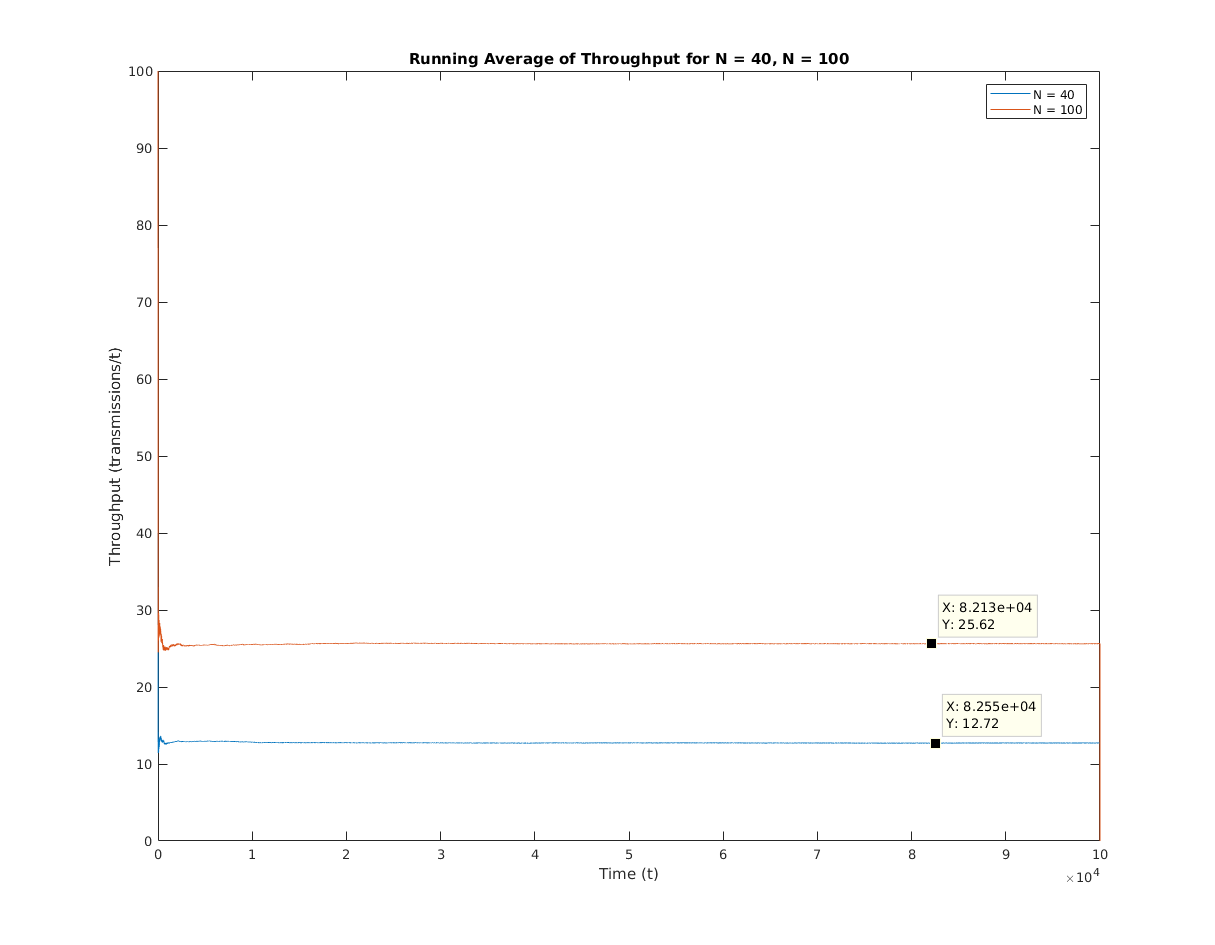
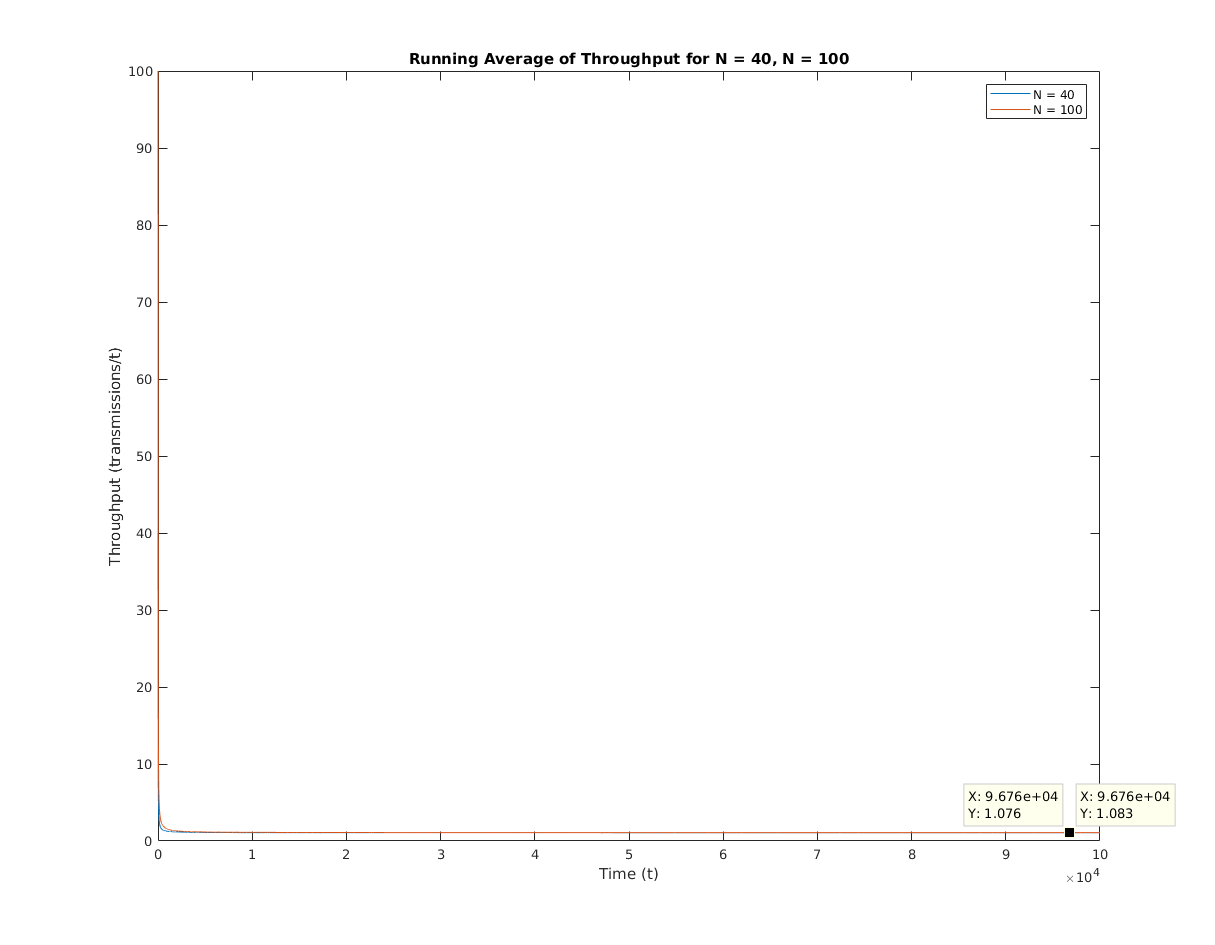
fixed 549 hw2.2, did bonus question

diff --git a/ele549/hw2/attempt1.m b/ele549/hw2/attempt1.m
@@ -6,33 +6,38 @@ N_arr = [40 100];
 TTMA = zeros(numel(N_arr),T); % Total Transmissions Moving Average
 
 for idx = 1:numel(N_arr)
-    numLambda = N_arr(idx);
-    P = ones(numLambda,T);
-    Ev = zeros(numLambda,1);
+    numUser = N_arr(idx);
+    P = ones(numUser,T);
+    P(:,1) = ones(numUser,1);
+    Ev = zeros(numUser,1);
     total_transmissions = zeros(1,T);
 
     for t = 1:(T-1)
-        for n = 1:numLambda
+        for n = 1:numUser
             Ev(n,1) = rand < P(n,t);
         end
         total_transmissions(1,t) = sum(Ev(:,1));
         if total_transmissions(1,t) == 0
             P(:,t+1) = min(1.2*P(:,t),1);
         elseif total_transmissions(1,t) > 1
-            P(:,t+1) = 0.8*P(:,t);
+            P(:,t+1) = 0.8.*P(:,t);
+        else
+            P(:,t+1) = P(:,t);
         end
         TTMA(idx,t) = sum(total_transmissions(1,1:t))/t;
     end
+    TTMA(idx,T) = sum(total_transmissions(1,1:T))/T;
 end
 
 %% Prob #2 Throughput Graphing
 t = 1:T;
 plot(t,TTMA(1,:))
 hold on
+plot(t,TTMA(2,:))
 xlabel("Time (t)")
 ylabel("Throughput (transmissions/t)")
 title("Running Average of Throughput for N = 40, N = 100")
-plot(t,TTMA(2,:))
+
 legend("N = 40","N = 100")
 hold off
 
@@ -151,14 +156,42 @@ end
 
 %% Geo/D/1, G/G/1, G/X/1 comparison graphing
 hold on;
-plot(lambda,geoMeanQueueLen, 'ro')
+plot(lambda,geoMeanQueueLen, 'rx')
 plot(lambda,detMeanQueueLen, 'bx')
-plot(lambda,expMeanQueueLen(1,:), 'go')
-plot(lambda,expMeanQueueLen(2,:), 'gx')
+plot(lambda,expMeanQueueLen(1,:), 'cx')
+plot(lambda,expMeanQueueLen(2,:), 'mx')
 plot(lambda,geoExpectedQueueLen,'r')
 plot(lambda,detExpectedQueueLen,'b')
 xlabel("\lambda")
 ylabel("E(\lambda) (Average Queue Length)")
 title("Geo/Geo/1 vs Geo/D/1 vs Geo/X/1");
 legend("mean simulated queue len (G/G/1)","mean simulated queue len (G/D/1)","mean simulated queue len (G/X/1,M = 1)","mean simulated queue len (G/X/1,M = 5)","mean expected queue len (G/G/1)","mean expected queue len (G/D/1)",'Location','NorthWest');
+hold off;
+
+%% Bonus
+subplot(2,1,1)
+hold on;
+plot(lambda,geoMeanQueueLen, 'rx')
+plot(lambda,detMeanQueueLen, 'bx')
+plot(lambda,expMeanQueueLen(1,:), 'cx')
+plot(lambda,expMeanQueueLen(2,:), 'mx')
+plot(lambda,geoExpectedQueueLen,'r')
+plot(lambda,detExpectedQueueLen,'b')
+xlabel("\lambda")
+ylabel("E(\lambda) (Average Queue Length)")
+title("Geo/Geo/1 vs Geo/D/1 vs Geo/X/1");
+legend("mean simulated queue len (G/G/1)","mean simulated queue len (G/D/1)","mean simulated queue len (G/X/1,M = 1)","mean simulated queue len (G/X/1,M = 5)","mean expected queue len (G/G/1)","mean expected queue len (G/D/1)",'Location','NorthWest');
+hold off;
+subplot(2,1,2)
+hold on;
+plot(lambda,(geoMeanQueueLen./lambda), 'r--')
+plot(lambda,(detMeanQueueLen./lambda), 'b--')
+plot(lambda,(expMeanQueueLen(1,:)./lambda), 'c--')
+plot(lambda,(expMeanQueueLen(2,:)./lambda), 'm--')
+% plot(lambda,(geoExpectedQueueLen./lambda),'r--')
+% plot(lambda,(detExpectedQueueLen./lambda),'b--')
+xlabel("\lambda")
+ylabel("L/\lambda (Average Wait Time)")
+title("Geo/Geo/1 vs Geo/D/1 vs Geo/X/1");
+legend("mean simulated delay  (G/G/1)","mean simulated delay (G/D/1)","mean simulated delay (G/X/1,M = 1)","mean simulated delay (G/X/1,M = 5)",'Location','NorthWest');
 hold off;
